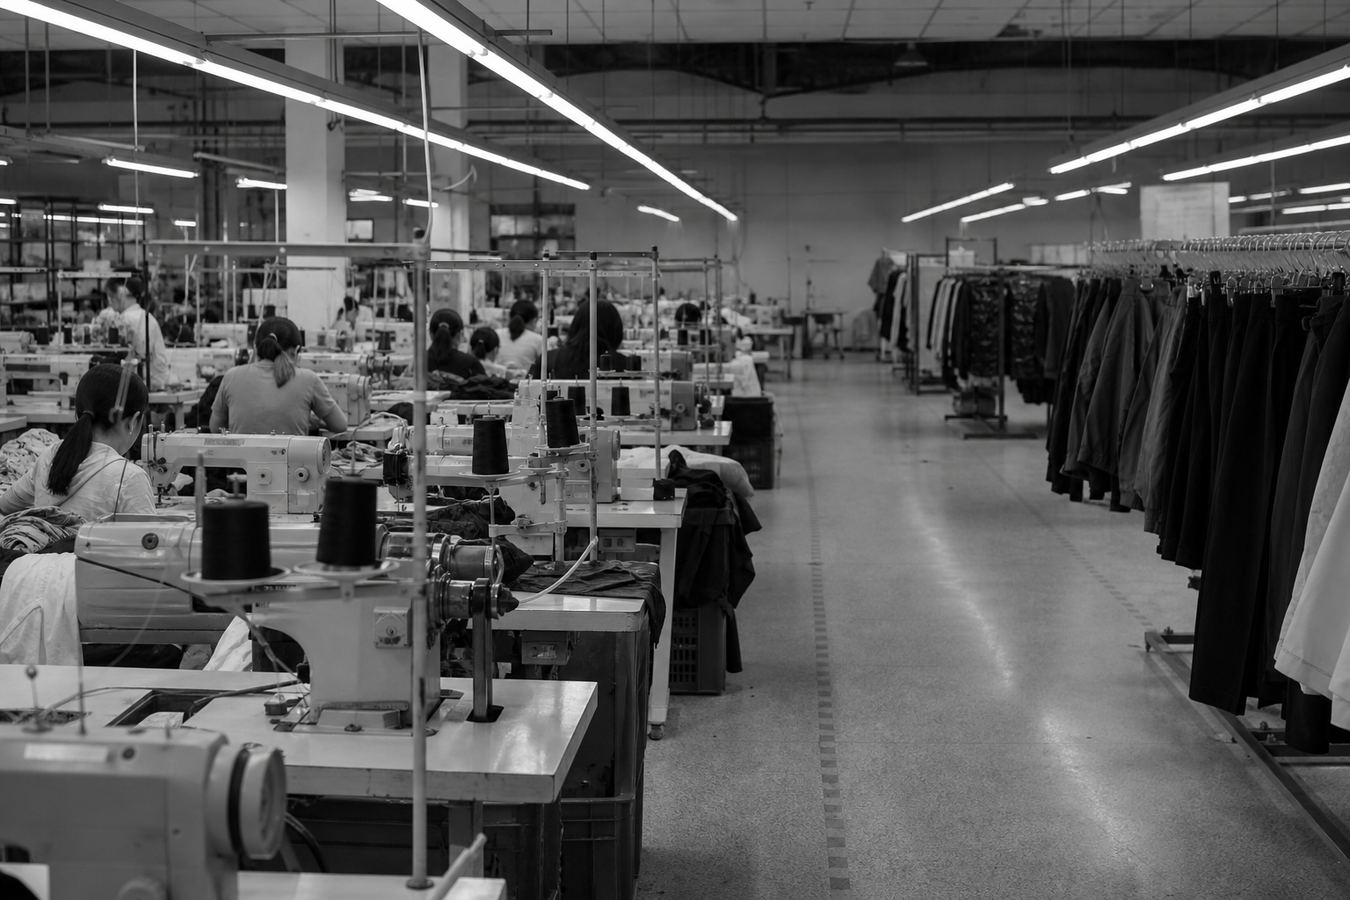
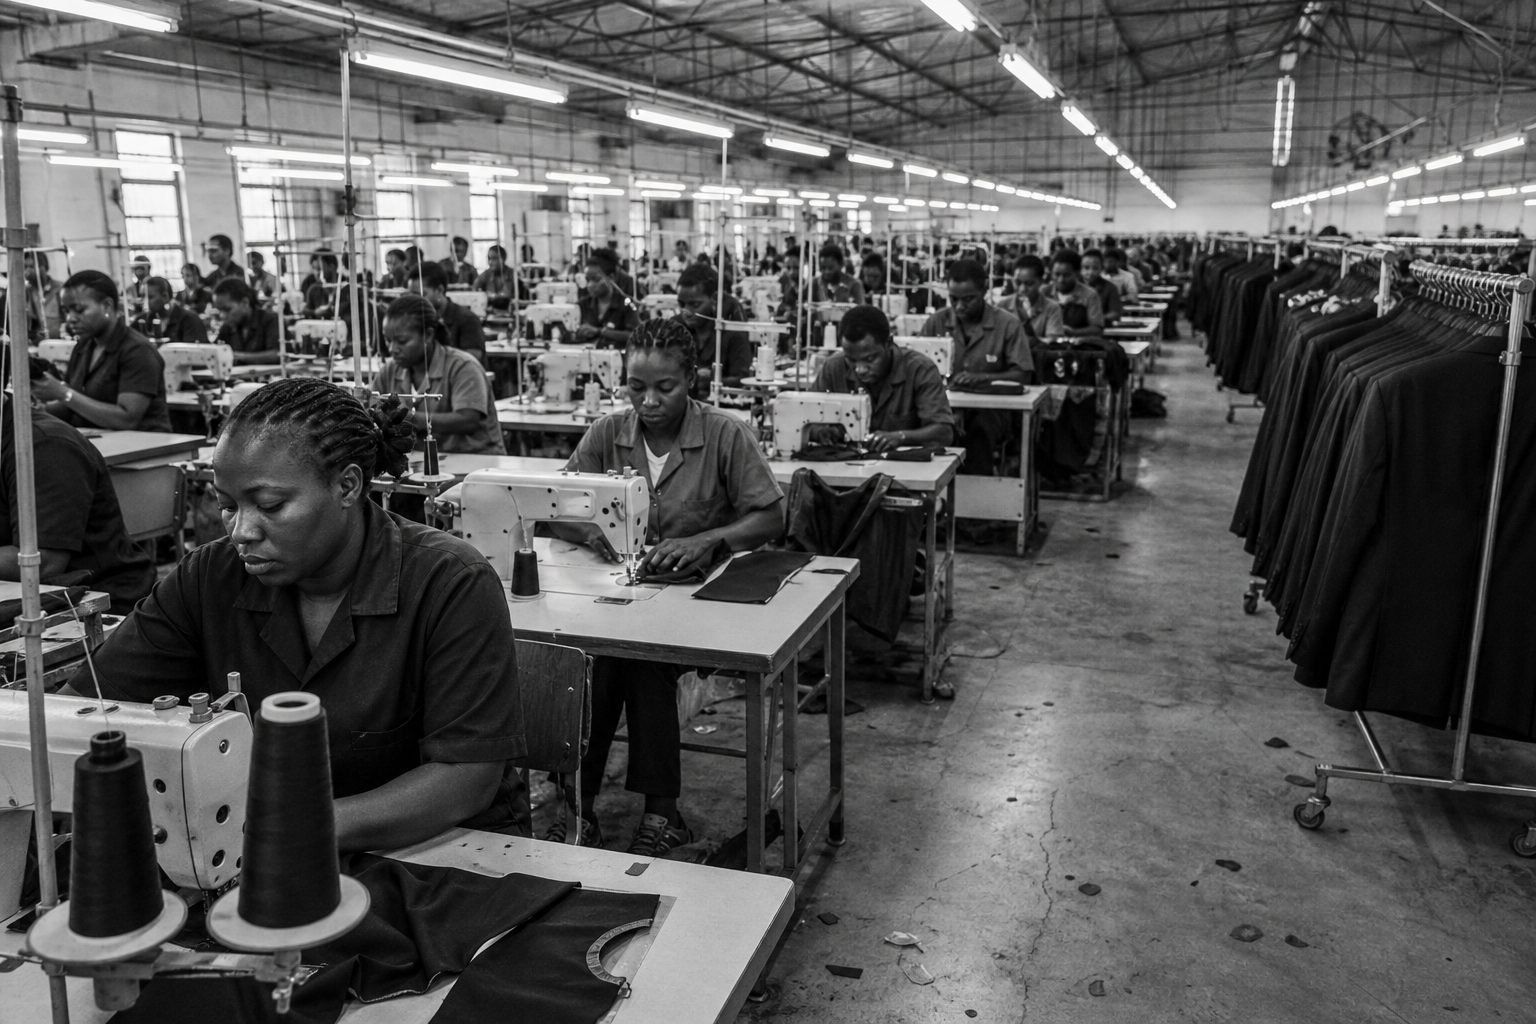
Let anyone browse Cosine Textiles, keep fabric orders to buyers, and mark the studio catalog coming soon.

diff --git a/frontend/src/pages/Project.jsx b/frontend/src/pages/Project.jsx
@@ -1,6 +1,6 @@
 import { useEffect, useRef, useState } from "react";
 import { CLOTHING_CATEGORIES, SHARED_CATEGORIES, getProject } from "../data";
-import { canViewTextiles, isBrandOwner } from "../clientHome";
+import { canOrderTextiles, isBrandOwner } from "../clientHome";
 import { fetchFabrics } from "../api";
 import OrderPanel from "../components/OrderPanel";
 import FabricOrderPanel from "../components/FabricOrderPanel";
@@ -138,17 +138,18 @@ function HeroBackground({ image, video }) {
 
 export default function Project({ slug, user }) {
   const project = getProject(slug);
-  const textilesAccess = slug === "cosine-textiles" && canViewTextiles(user);
+  const isTextiles = slug === "cosine-textiles";
+  const canOrder = canOrderTextiles(user);
   const [fabrics, setFabrics] = useState([]);
   const [fabricError, setFabricError] = useState("");
   const [selectedFabric, setSelectedFabric] = useState(null);
 
   useEffect(() => {
-    if (!textilesAccess) return;
+    if (!isTextiles) return;
     fetchFabrics()
       .then((data) => setFabrics(data.fabrics || []))
       .catch((err) => setFabricError(err.message || "Could not load the mill list"));
-  }, [textilesAccess]);
+  }, [isTextiles]);
 
   if (!project) {
     return (
@@ -184,29 +185,35 @@ export default function Project({ slug, user }) {
         </div>
       </header>
 
-      {textilesAccess ? (
+      {isTextiles ? (
         fabricError ? (
           <p className="container textiles-load-error">{fabricError}</p>
         ) : (
           <>
             <TextilesCatalog
               fabrics={fabrics}
-              selectedId={selectedFabric?.id}
-              onOrder={(fabric) => {
-                setSelectedFabric(fabric);
-                document.getElementById("fabric-order")?.scrollIntoView({
-                  behavior: "smooth",
-                });
-              }}
+              selectedId={canOrder ? selectedFabric?.id : undefined}
+              onOrder={
+                canOrder
+                  ? (fabric) => {
+                      setSelectedFabric(fabric);
+                      document.getElementById("fabric-order")?.scrollIntoView({
+                        behavior: "smooth",
+                      });
+                    }
+                  : undefined
+              }
             />
-            <div id="fabric-order">
-              <FabricOrderPanel
-                user={user}
-                fabrics={fabrics}
-                selected={selectedFabric}
-                onSelect={setSelectedFabric}
-              />
-            </div>
+            {canOrder ? (
+              <div id="fabric-order">
+                <FabricOrderPanel
+                  user={user}
+                  fabrics={fabrics}
+                  selected={selectedFabric}
+                  onSelect={setSelectedFabric}
+                />
+              </div>
+            ) : null}
           </>
         )
       ) : (

diff --git a/frontend/src/pages/People.jsx b/frontend/src/pages/People.jsx
@@ -16,7 +16,7 @@ const ROLES = [
     id: "eyes",
     title: "The Eyes",
     image: "/people/eyes.jpg",
-    alt: "A garment production floor with sewing machines and hanging work in progress",
+    alt: "African garment workers at sewing stations on a production floor",
     body: [
       "Nine years in operations, between them, watching over the process so nothing slips between stages. Operational efficiency, strategy, sustainability and partnerships, ISO-certified.",
       "The ones who keep a client relationship steady and the standard defensible when it's questioned. Alongside The Spine, they oversee production timelines and floor supervision.",
@@ -26,7 +26,7 @@ const ROLES = [
     id: "ear",
     title: "The Ear",
     image: "/people/ear.jpg",
-    alt: "Pattern paper, rulers and a muslin toile on a dress form",
+    alt: "An African fashion designer drafting a pattern at a studio table",
     body: [
       "Seven years in the room listening to what a client means before it becomes a garment. Trained across fashion design and pattern making, with the range to take a brief from sketch to tech pack.",
       "2D and 3D design, Illustrator, print and finishing, and knowledge that stretches as far as sports shoe design. Comfortable across athleisure, streetwear, loungewear, casual and sportswear. Alongside The Head and The Spine, this team carries the sampling conversation with clients through to fit and revision.",
@@ -36,7 +36,7 @@ const ROLES = [
     id: "hands",
     title: "The Hands",
     image: "/people/hands.jpg",
-    alt: "A tailor guiding fabric under an industrial sewing machine",
+    alt: "Dark-skinned hands guiding fabric under an industrial sewing machine",
     body: "A decade of making, shared across the floor. Stitching and sample making across the full range, athleisure, casual, sportswear, tailoring, technical garments, women\u2019s and men\u2019s wear. The kind of range that comes from years of being handed almost anything and being expected to build it properly. Hand-finishing, working from a tech pack independently and mentoring newer tailors coming up through the floor.",
   },
   {

diff --git a/frontend/src/components/TextilesCatalog.jsx b/frontend/src/components/TextilesCatalog.jsx
@@ -16,7 +16,9 @@ export default function TextilesCatalog({ fabrics, full, selectedId, onOrder }) 
           <p>
             {full
               ? "Supplier, mill code, prices and usage stay here. Buyers only see type, composition and GSM until colour cards are on the sheet."
-              : "Type, composition and GSM. Order a line and it shows on the studio admin list. Colour range will show when a card is on file."}
+              : onOrder
+                ? "Type, composition and GSM. Order a line and it shows on the studio admin list. Colour range will show when a card is on file."
+                : "Type, composition and GSM. Anyone can browse the lines. A buyer account is needed to place an order. Colour range will show when a card is on file."}
           </p>
         </div>
 

diff --git a/frontend/src/components/WorkGrid.jsx b/frontend/src/components/WorkGrid.jsx
@@ -8,7 +8,7 @@ export default function WorkGrid({ projects }) {
           href={`#/work/${p.slug}`}
           className={`work-card${p.image ? "" : " work-card--text"}`}
           key={p.slug}
-          aria-label={`${p.client} — ${p.name}`}
+          aria-label={`${p.cardTitle || p.client} — ${p.name}`}
         >
           {p.image ? (
             <img
@@ -17,7 +17,7 @@ export default function WorkGrid({ projects }) {
               className={p.imageFit === "portrait" ? "is-portrait" : undefined}
             />
           ) : null}
-          <span className="work-card__name">{p.client}</span>
+          <span className="work-card__name">{p.cardTitle || p.client}</span>
         </a>
       ))}
     </div>

diff --git a/frontend/src/pages/Login.jsx b/frontend/src/pages/Login.jsx
@@ -39,8 +39,9 @@ export default function Login({ user, onLogin }) {
           <p className="eyebrow">Client access</p>
           <h1>Sign in to your studio.</h1>
           <p className="page-head__lede">
-            Clients order against their own catalog. Textile buyers open Cosine Textiles. The public
-            site stays public — this is only for the work in motion.
+            Anyone can browse a brand catalog or the Cosine Textiles mill list. Only a signed-in
+            client can order their own garments, and only a buyer can order fabric. The public site
+            stays public — this is only for the work in motion.
           </p>
         </div>
       </header>

diff --git a/frontend/src/clientHome.js b/frontend/src/clientHome.js
@@ -10,6 +10,6 @@ export function isBrandOwner(user, slug) {
   return Boolean(user?.role === "client" && user.client_slug && user.client_slug === slug);
 }
 
-export function canViewTextiles(user) {
+export function canOrderTextiles(user) {
   return user?.role === "buyer";
 }

diff --git a/frontend/src/data.js b/frontend/src/data.js
@@ -195,6 +195,7 @@ export const PROJECTS = [
     slug: "cosine-create",
     name: "Studio",
     client: "Cosine Create",
+    cardTitle: "Cosine Create\nComing Soon",
     hook: "Work from our own studio.",
     credit: "In house.",
     image: "/people/hands.jpg",

diff --git a/frontend/src/components/WorkGrid.css b/frontend/src/components/WorkGrid.css
@@ -51,6 +51,7 @@
   text-transform: uppercase;
   text-align: center;
   line-height: 0.95;
+  white-space: pre-line;
   color: var(--white);
   text-shadow: 0 1px 18px rgba(0, 0, 0, 0.45);
   opacity: 0;

diff --git a/backend/app.py b/backend/app.py
@@ -318,14 +318,8 @@ def register_routes(app):
         return jsonify({"products": [p.to_public() for p in query.all()]})
 
     @app.get("/api/fabrics")
-    @require_auth
-    @require_role("buyer", "admin")
     def fabrics():
-        user = g.current_user
         rows = Fabric.query.order_by(Fabric.kind, Fabric.gsm, Fabric.code, Fabric.id).all()
-        if user.role == "admin":
-            return jsonify({"fabrics": [row.to_admin() for row in rows]})
-
         seen = set()
         unique = []
         for row in rows:
